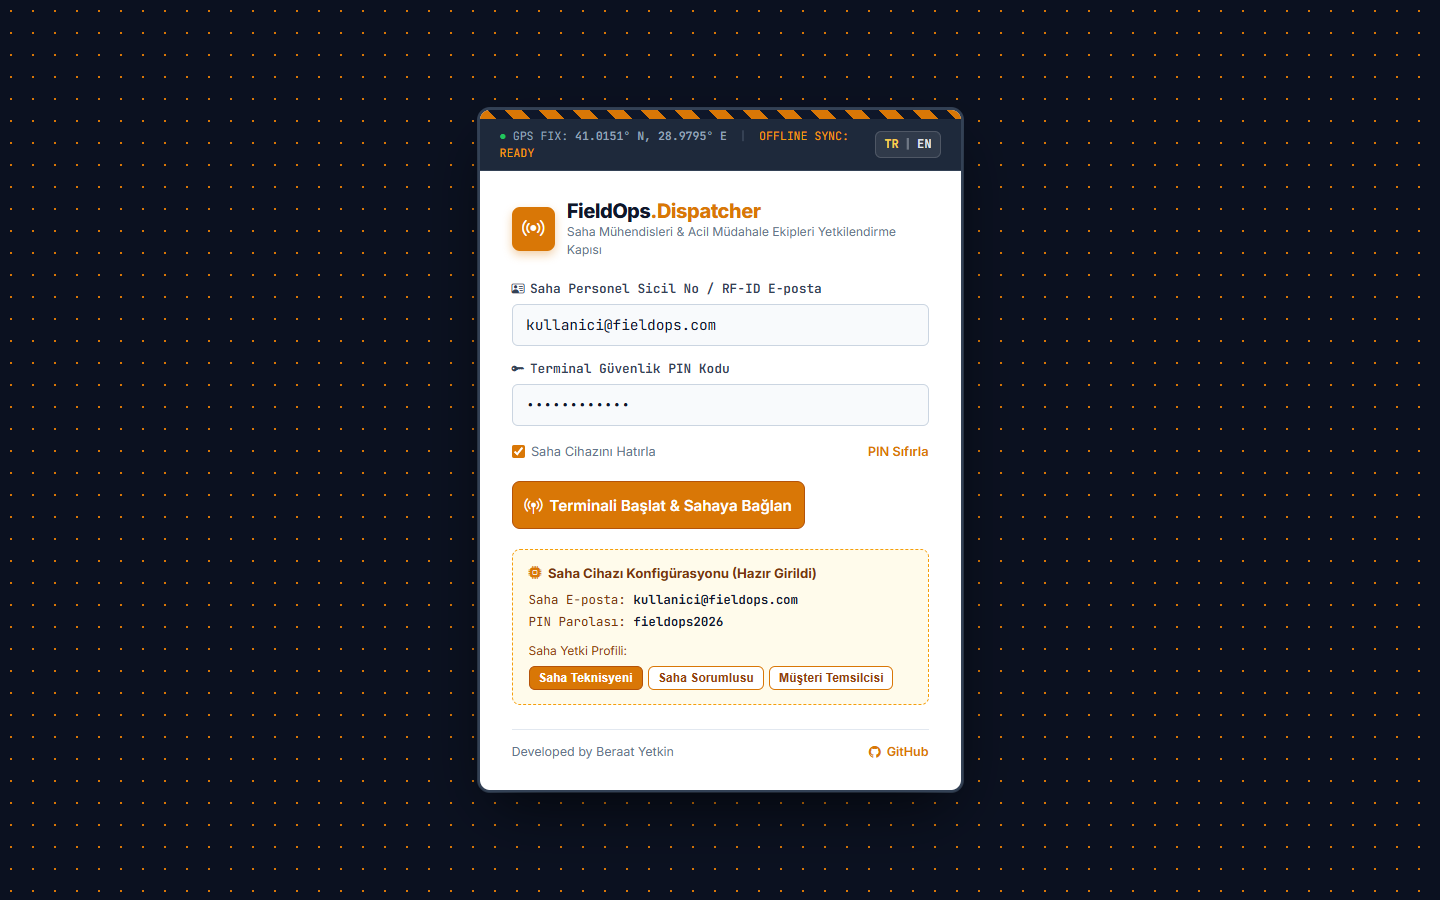
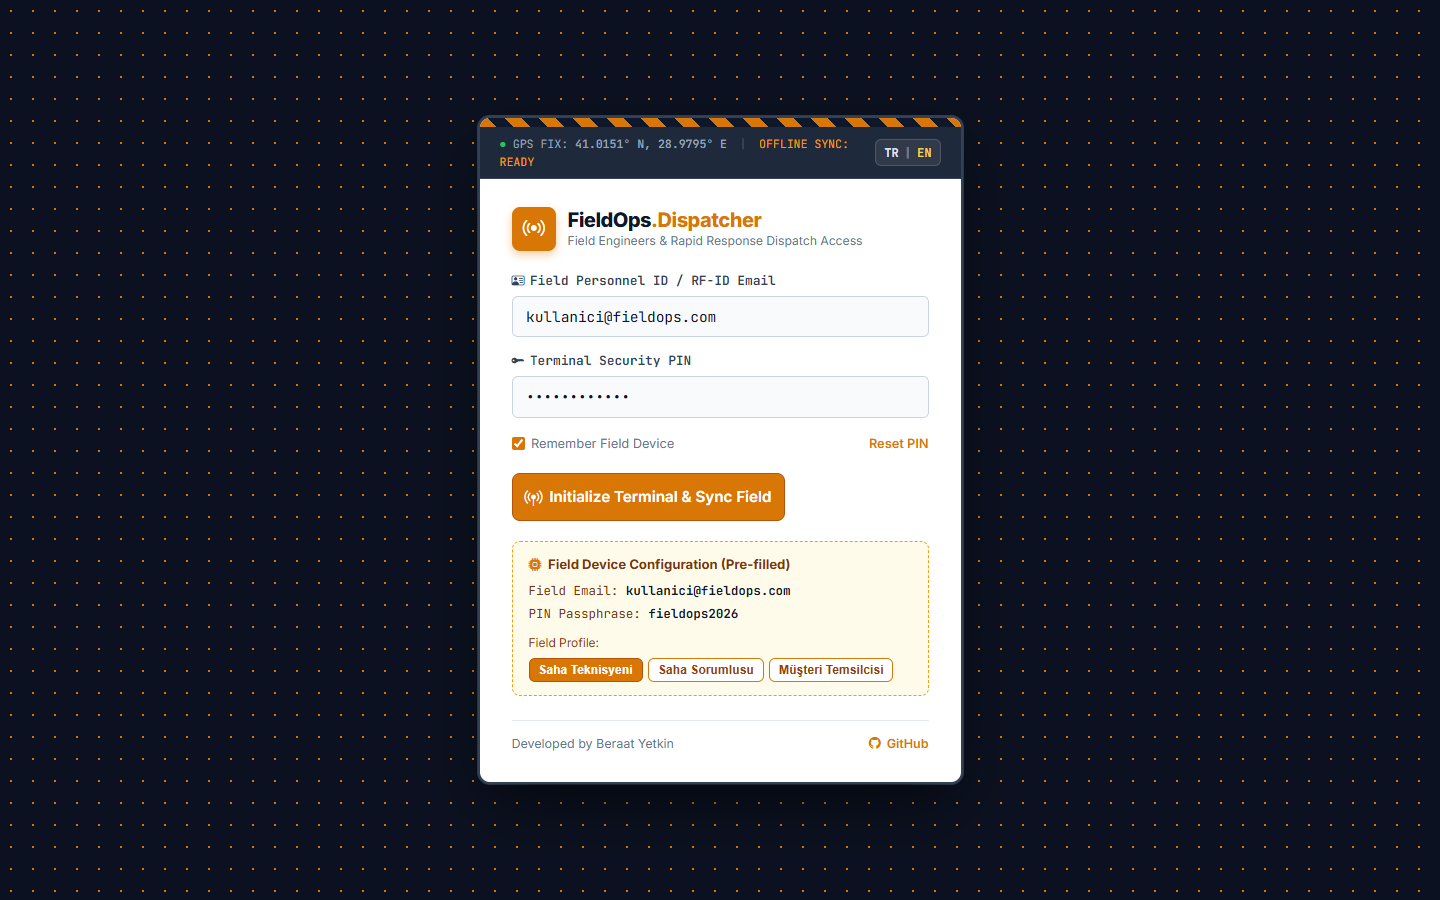
docs: clean English documentation without emojis, English screenshots and default locale

diff --git a/index.html b/index.html
@@ -1235,7 +1235,7 @@
   </div>
 
   <script>
-    let currentLang = localStorage.getItem('fieldops_lang') || 'tr';
+    let currentLang = localStorage.getItem('fieldops_lang') || 'en';
     let isOnline = true;
     let pendingQueue = JSON.parse(localStorage.getItem('fo_queue')) || [];
     let currentRole = localStorage.getItem('fo_role') || 'Saha Sorumlusu';

diff --git a/README.md b/README.md
@@ -1,106 +1,106 @@
-# FieldOps 🚜
-> **Saha Operasyonları & Sevk Masası • Endüstriyel Dispatcher ve Mobil Denetim Konsolu**
+# FieldOps
+> Enterprise Field Service Dispatcher & Mobile Inspection Terminal
 
-[![Canlı Demo](https://img.shields.io/badge/Canl%C4%B1_Demo-fieldopsapp.web.app-d97706?style=for-the-badge&logo=google-chrome&logoColor=white)](https://fieldopsapp.web.app)
-[![Lisans](https://img.shields.io/badge/Lisans-MIT-blue.svg?style=for-the-badge)](LICENSE)
-[![Teknoloji](https://img.shields.io/badge/Teknoloji-Vanilla_ES6%2B_No_Framework-yellow?style=for-the-badge&logo=javascript)](https://developer.mozilla.org)
-[![Arayüz](https://img.shields.io/badge/Tasar%C4%B1m-End%C3%BCstriyel_Split_Screen-amber?style=for-the-badge&logo=css3)](https://developer.mozilla.org)
-[![Dil](https://img.shields.io/badge/Dil-T%C3%BCrk%C3%A7e_%7C_English-green?style=for-the-badge)](https://fieldopsapp.web.app)
-
----
-
-## 📸 Canlı Önizleme (Previews)
-
-### 1. İki Kolonlu Saha Sevk & Denetim Konsolu (Split-Screen)
-Sol kolonda filtrelenebilir iş emri sevk listesi, sağ kolonda canlı GPS doğrulaması, ISO-9001 denetim formu ve **İş Emrini Sil** aksiyonu:
-![FieldOps Konsol Önizleme](docs/preview-dashboard.png)
-
-### 2. Endüstriyel Dispatcher Giriş Terminali (Rugged Terminal)
-Sarı/siyah güvenlik tehlike şeridi (hazard stripes), canlı GPS koordinat şeridi, RF-ID / personel sicil no alanları ve önceden tanımlı roller:
-![FieldOps Login Önizleme](docs/preview-login.png)
+[![Live Demo](https://img.shields.io/badge/Live_Demo-fieldopsapp.web.app-d97706?style=for-the-badge)](https://fieldopsapp.web.app)
+[![License](https://img.shields.io/badge/License-MIT-blue.svg?style=for-the-badge)](LICENSE)
+[![Technology](https://img.shields.io/badge/Technology-Vanilla_ES6%2B-yellow?style=for-the-badge)](https://developer.mozilla.org)
+[![Interface](https://img.shields.io/badge/Interface-Split_Screen_Console-amber?style=for-the-badge)](https://developer.mozilla.org)
+[![Language Support](https://img.shields.io/badge/Language-English_%7C_Turkish-green?style=for-the-badge)](https://fieldopsapp.web.app)
 
 ---
 
-## 🌟 Öne Çıkan Özellikler
+## Previews
 
-### 1. Sektöre Özgü Endüstriyel Dispatcher Mimarisi
-- **İki Kolonlu Saha Konsolu (Split-Screen)**:
-  - **Sol Kolon (`.fo-orders-pane`)**: Aciliyet seviyelerine göre filtrelenebilir iş emirleri listesi (Kritik, İşlemde, Tamamlandı), arama çubuğu ve görev sayaçları.
-  - **Sağ Kolon (`.fo-studio-pane`)**: Seçili iş emrinin detaylı inceleme stüdyosu; canlı GPS koordinat okuyucu, ISO-9001 muayene kriterleri onay kutuları ve teknisyen dijital imza alanı.
-- **Canlı Telemetri & SQLite Kuyruğu**: Saha bağlantısı kopsa dahi çevrimdışı iş emri kuyruğunu simüle eden durum bandı.
+### 1. Two-Column Dispatcher Console (Split-Screen)
+Filterable work orders list on the left, live GPS coordinates, ISO-9001 inspection criteria, and work order deletion on the right:
+![FieldOps Console Preview](docs/preview-dashboard.png)
 
-### 2. Güvenli İş Emri Silme (Order Deletion) Mekanizması
-- **Belirgin Silme Butonu**: İnceleme stüdyosunun sağ üstünde "Denetimi Tamamla" butonunun hemen yanında kırmızı etiketli **"İş Emrini Sil" (`bi-trash3`)** butonu yer alır.
-- **Onay Modalı (`#deleteConfirmModal`)**: İstem dışı silmeleri önlemek için iş emri koduyla birlikte onay penceresi açılır.
-- **Reaktif Metrik Güncellemesi**: Silinen iş emri listeden düşer, `localStorage` (`fo_orders`) güncellenir; aktif, kritik ve kuyruk sayaçları anında otomatik yeniden toplanır.
-
-### 3. Oturum Kalıcılığı (Session Persistence) & Zero-Flicker Başlangıç
-- **Sayfa Yenilemelerinde Oturumu Hatırla**: Giriş başarılı olduğunda `localStorage.setItem('fo_logged_in', 'true')` kaydı işlenir.
-- **Sıfır Titreme (Zero-Flicker)**: Sayfa yenilendiğinde (F5) inline script kontrolü sayesinde giriş ekranı hiç açılmadan doğrudan operasyon masası gelir.
-- **Güvenli Çıkış**: Sağ üstteki kırmızı **"Çıkış"** butonuna basıldığında oturum sıfırlanır ve giriş terminaline güvenle dönülür.
-- **Hazır Demo Bilgileri**: Giriş ekranında e-posta ve şifre hazır girili gelir; altındaki hızlı rol butonlarıyla (`Saha Sorumlusu`, `Teknisyen / Kullanıcı`, `Kurumsal Müşteri`) tek tıkla kimlik değiştirilebilir.
-
-### 4. Çift Dilli Tam Destek (TR | EN)
-- Sağ üstteki `[ TR | EN ]` dil seçici ile tüm saha kontrolleri, iş emri detayları, modal başlıkları ve bildirimler dinamik olarak çevrilir.
-- Başlangıç varsayılan dili **Türkçe**'dir.
+### 2. Industrial Dispatcher Terminal Login Portal
+High-visibility hazard stripes, real-time GPS telemetry ribbon, RF-ID/technician credentials, and role selector:
+![FieldOps Login Preview](docs/preview-login.png)
 
 ---
 
-## 🛠 Teknoloji Yığını (Tech Stack)
+## Key Features
 
-| Katman | Teknoloji | Rolü |
+### Industrial Dispatcher Architecture
+- Split-Screen Workstation:
+  - Left Column: Searchable, urgency-filtered work order queue (Critical, In Progress, Completed).
+  - Right Column: In-depth order inspection studio with live GPS geolocation, ISO-9001 checklist verification, and technician digital signature canvas.
+- Telemetry & Offline Queue: Status ribbon displaying GPS lock state and offline synchronization queue buffer.
+
+### Safe Work Order Deletion Mechanism
+- Prominent Delete Order action button located in the order studio header next to inspection completion.
+- Confirmation modal with order ID safeguarding against accidental removals.
+- Reactive metric recalculation: deleted items are removed from DOM and localStorage, automatically updating active, critical, and queued order counters.
+
+### Session Persistence & Zero-Flicker Initialization
+- Persists authentication state across browser refreshes via localStorage.
+- Instant inline check prevents login screen flicker on page reload.
+- Secure sign-out action clears credentials and returns to the dispatcher login portal.
+- Pre-filled credentials with instant role switches (Field Supervisor, Technician / User, Client).
+
+### Bilingual Support (English | Turkish)
+- In-place language switching for all order statuses, technical checklist criteria, modal dialogs, and alerts.
+- Default language is English.
+
+---
+
+## Tech Stack
+
+| Layer | Technology | Role |
 | :--- | :--- | :--- |
-| **Arayüz (UI)** | HTML5, CSS3, Flexbox & CSS Grid | Endüstriyel amber ve antrasit renk paletine sahip split-screen konsol |
-| **İş Mantığı** | Vanilla JavaScript (ES6+) | Reaktif iş emri filtreleme, denetim onayı ve imza yönetimi |
-| **İkonlar** | Bootstrap Icons v1.11.3 | Vektörel sistem ikonları |
-| **Veri Depolama** | HTML5 `localStorage` | İş emirleri, oturum bilgileri ve dil tercihleri |
-| **Hosting** | Firebase Hosting | Google altyapısı üzerinde yüksek erişilebilir statik dağıtım |
+| UI & Layout | HTML5, CSS3 Grid, Flexbox | Industrial amber and slate carbon split console |
+| Business Logic | Vanilla JavaScript (ES6+) | Reactive order filtering, checklist state, signature pad |
+| Icons | Bootstrap Icons v1.11.3 | System and industrial icons |
+| Storage | HTML5 localStorage | Work orders, session state, language preferences |
+| Hosting | Firebase Hosting | High-availability global deployment |
 
 ---
 
-## 📁 Proje Dizin Yapısı
+## Directory Structure
 
 ```
 FieldOps/
-├── index.html              # Bağımsız ve optimize edilmiş tek sayfa uygulama
-├── docs/                   # Dokümantasyon ve ekran görüntüleri
-│   ├── preview-dashboard.png # Saha sevk konsolu yüksek çözünürlüklü önizleme
-│   └── preview-login.png     # Dispatcher terminal giriş ekranı önizleme
-└── README.md               # Proje dokümantasyonu
+├── index.html              # Complete single-page application
+├── docs/                   # Documentation assets and screenshots
+│   ├── preview-dashboard.png # High-resolution console preview
+│   └── preview-login.png     # High-resolution login portal preview
+└── README.md               # Project documentation
 ```
 
 ---
 
-## ⚡ Hızlı Başlangıç (Local Setup)
+## Getting Started
 
-1. Depoyu yerel bilgisayarınıza indirin:
+1. Clone the repository:
    ```bash
    git clone https://github.com/kubrvk/FieldOps.git
    cd FieldOps
    ```
-2. `index.html` dosyasını tarayıcınızda açın:
+2. Open `index.html` in your browser:
    ```bash
    start index.html
    ```
-3. Alternatif yerel HTTP sunucusu ile çalıştırmak için:
+3. Alternatively, serve via any static HTTP server:
    ```bash
    npx serve .
    ```
-4. Tarayıcınızda açılan adrese gidin.
-   - *Giriş ekranını atlayıp doğrudan konsolu açmak için:* `http://localhost:3000/?demo=1`
+4. Access `http://localhost:3000` in your browser.
+   - To bypass login and view the console directly: `http://localhost:3000/?demo=1`
 
 ---
 
-## 🌐 Canlı Sistem
+## Live System
 
-- **Canlı URL**: [https://fieldopsapp.web.app](https://fieldopsapp.web.app)
-- **Doğrudan Demo Bağlantısı**: [https://fieldopsapp.web.app/?demo=1](https://fieldopsapp.web.app/?demo=1)
+- Live URL: [https://fieldopsapp.web.app](https://fieldopsapp.web.app)
+- Direct Dashboard Link: [https://fieldopsapp.web.app/?demo=1](https://fieldopsapp.web.app/?demo=1)
 
 ---
 
-## 👤 Geliştirici
+## Author
 
-**Developed by Beraat Yetkin**
+Developed by Beraat Yetkin
 - GitHub: [@kubrvk](https://github.com/kubrvk)
-- Proje Deposu: [FieldOps](https://github.com/kubrvk/FieldOps)
-- Portfolyo: [Beraat Yetkin Portfolio](https://github.com/kubrvk/portfolio)
+- Repository: [FieldOps](https://github.com/kubrvk/FieldOps)
+- Portfolio: [Beraat Yetkin Portfolio](https://github.com/kubrvk/portfolio)
